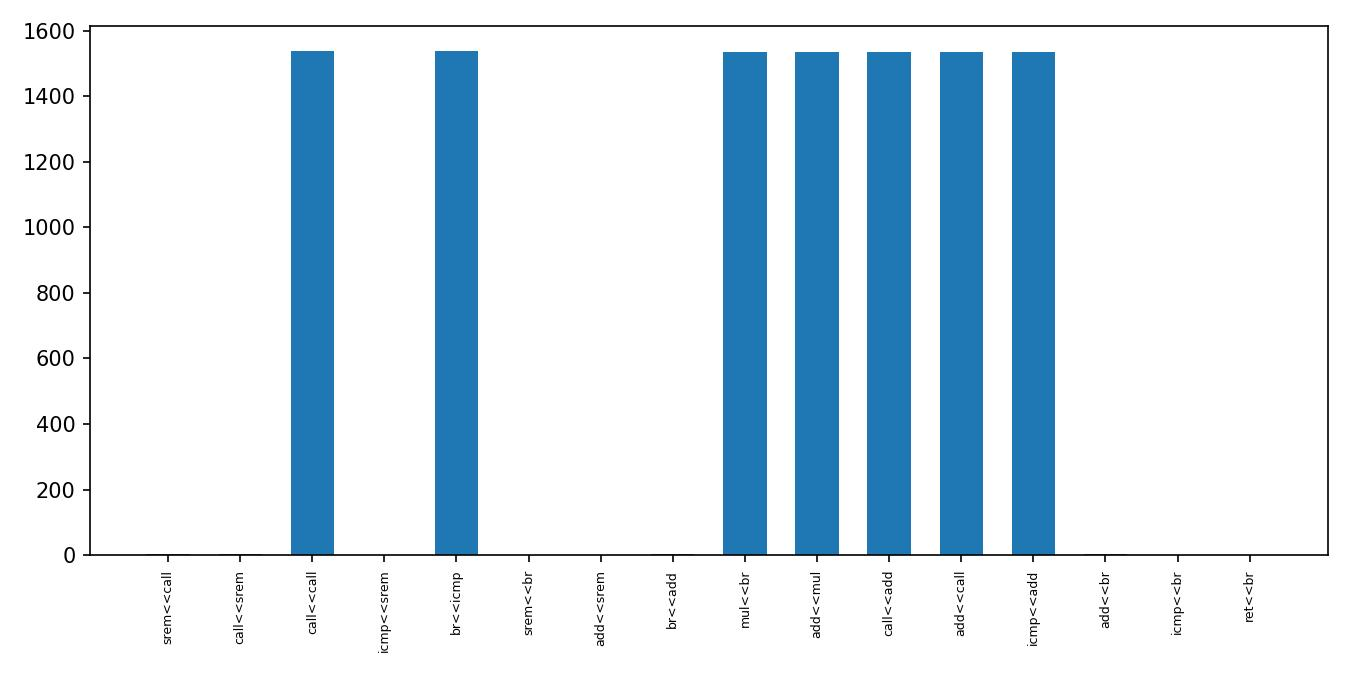
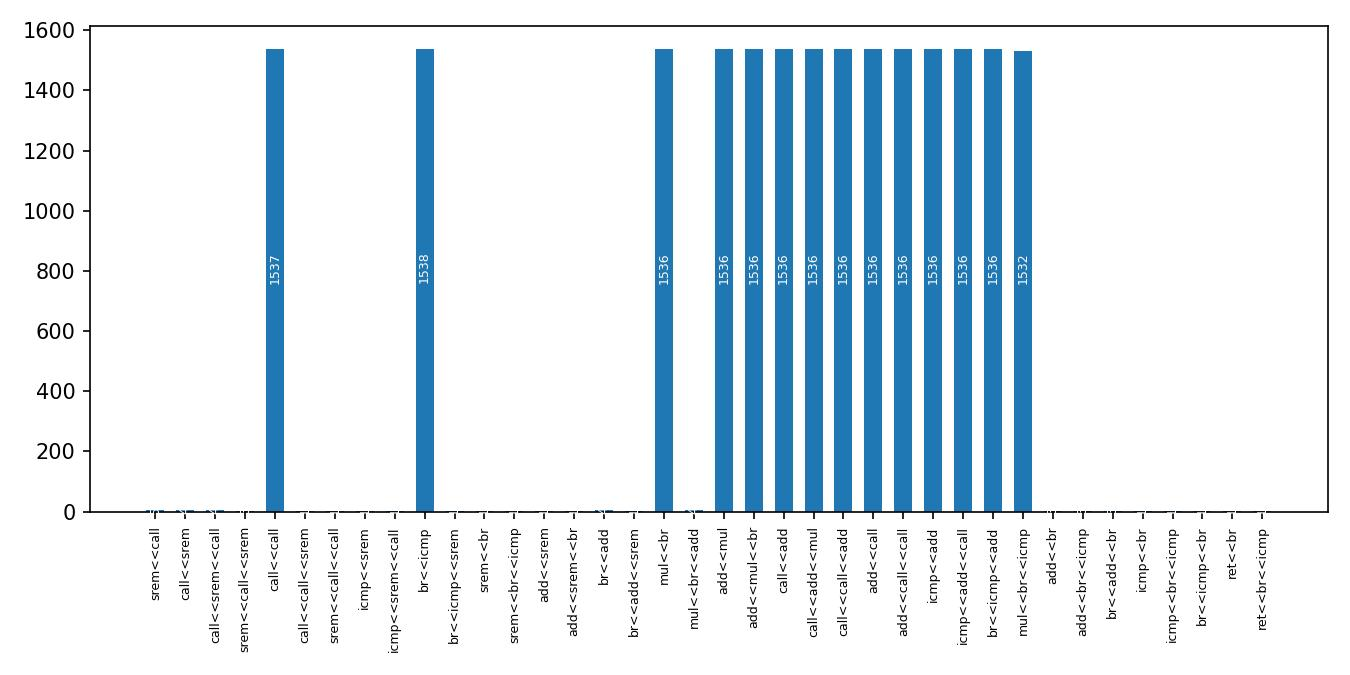
new statistic generation

diff --git a/lab2/gen_statistic.py b/lab2/gen_statistic.py
@@ -6,15 +6,21 @@ parser.add_argument('-s', '--static', action='store_true')
 
 def addlabels(x,y):
     for i in range(len(x)):
-        plt.text(i, y[i]//2, y[i], ha = 'center', color='white', size=6)
+        plt.text(i, y[i]//2, y[i], ha = 'center', color='white', size=6, rotation = 90)
 
 def create_stat(stat, name='stat'):
     plt.figure(figsize = (18/2,9/2), dpi = 150)
     plt.bar(stat.keys(), stat.values(), width=0.6)
     plt.xticks(fontsize=6, rotation=90)
-    # addlabels(stat.keys(), list(stat.values()))
+    addlabels(stat.keys(), list(stat.values()))
     plt.tight_layout()
     plt.savefig(f'{name}.jpeg')
+
+def update_stat(stat:dict, line:str):
+    if line in stat.keys():
+        stat[line] += 1
+    else:
+        stat[line] = 1
 
 if __name__ == '__main__':
     args = parser.parse_args()
@@ -36,12 +42,18 @@ if __name__ == '__main__':
     else:
         stat = dict()
         dump = open('stat_dyn.txt').read().split()
-        print(dump)
+        if not dump:
+            print('stat_dyn.txt is empty')
+
         for (i, word) in enumerate(dump):
             if i > 0:
                 line = f'{dump[i]}<<{dump[i-1]}'
-                if line in stat.keys():
-                    stat[line] += 1
-                else:
-                    stat[line] = 1
+                update_stat(stat, line)
+            if i > 1:
+                line = f'{dump[i]}<<{dump[i-1]}<<{dump[i-2]}'
+                update_stat(stat, line)
+                # if line in stat.keys():
+                #     stat[line] += 1
+                # else:
+                #     stat[line] = 1
         create_stat(stat, 'stat_dyn')
